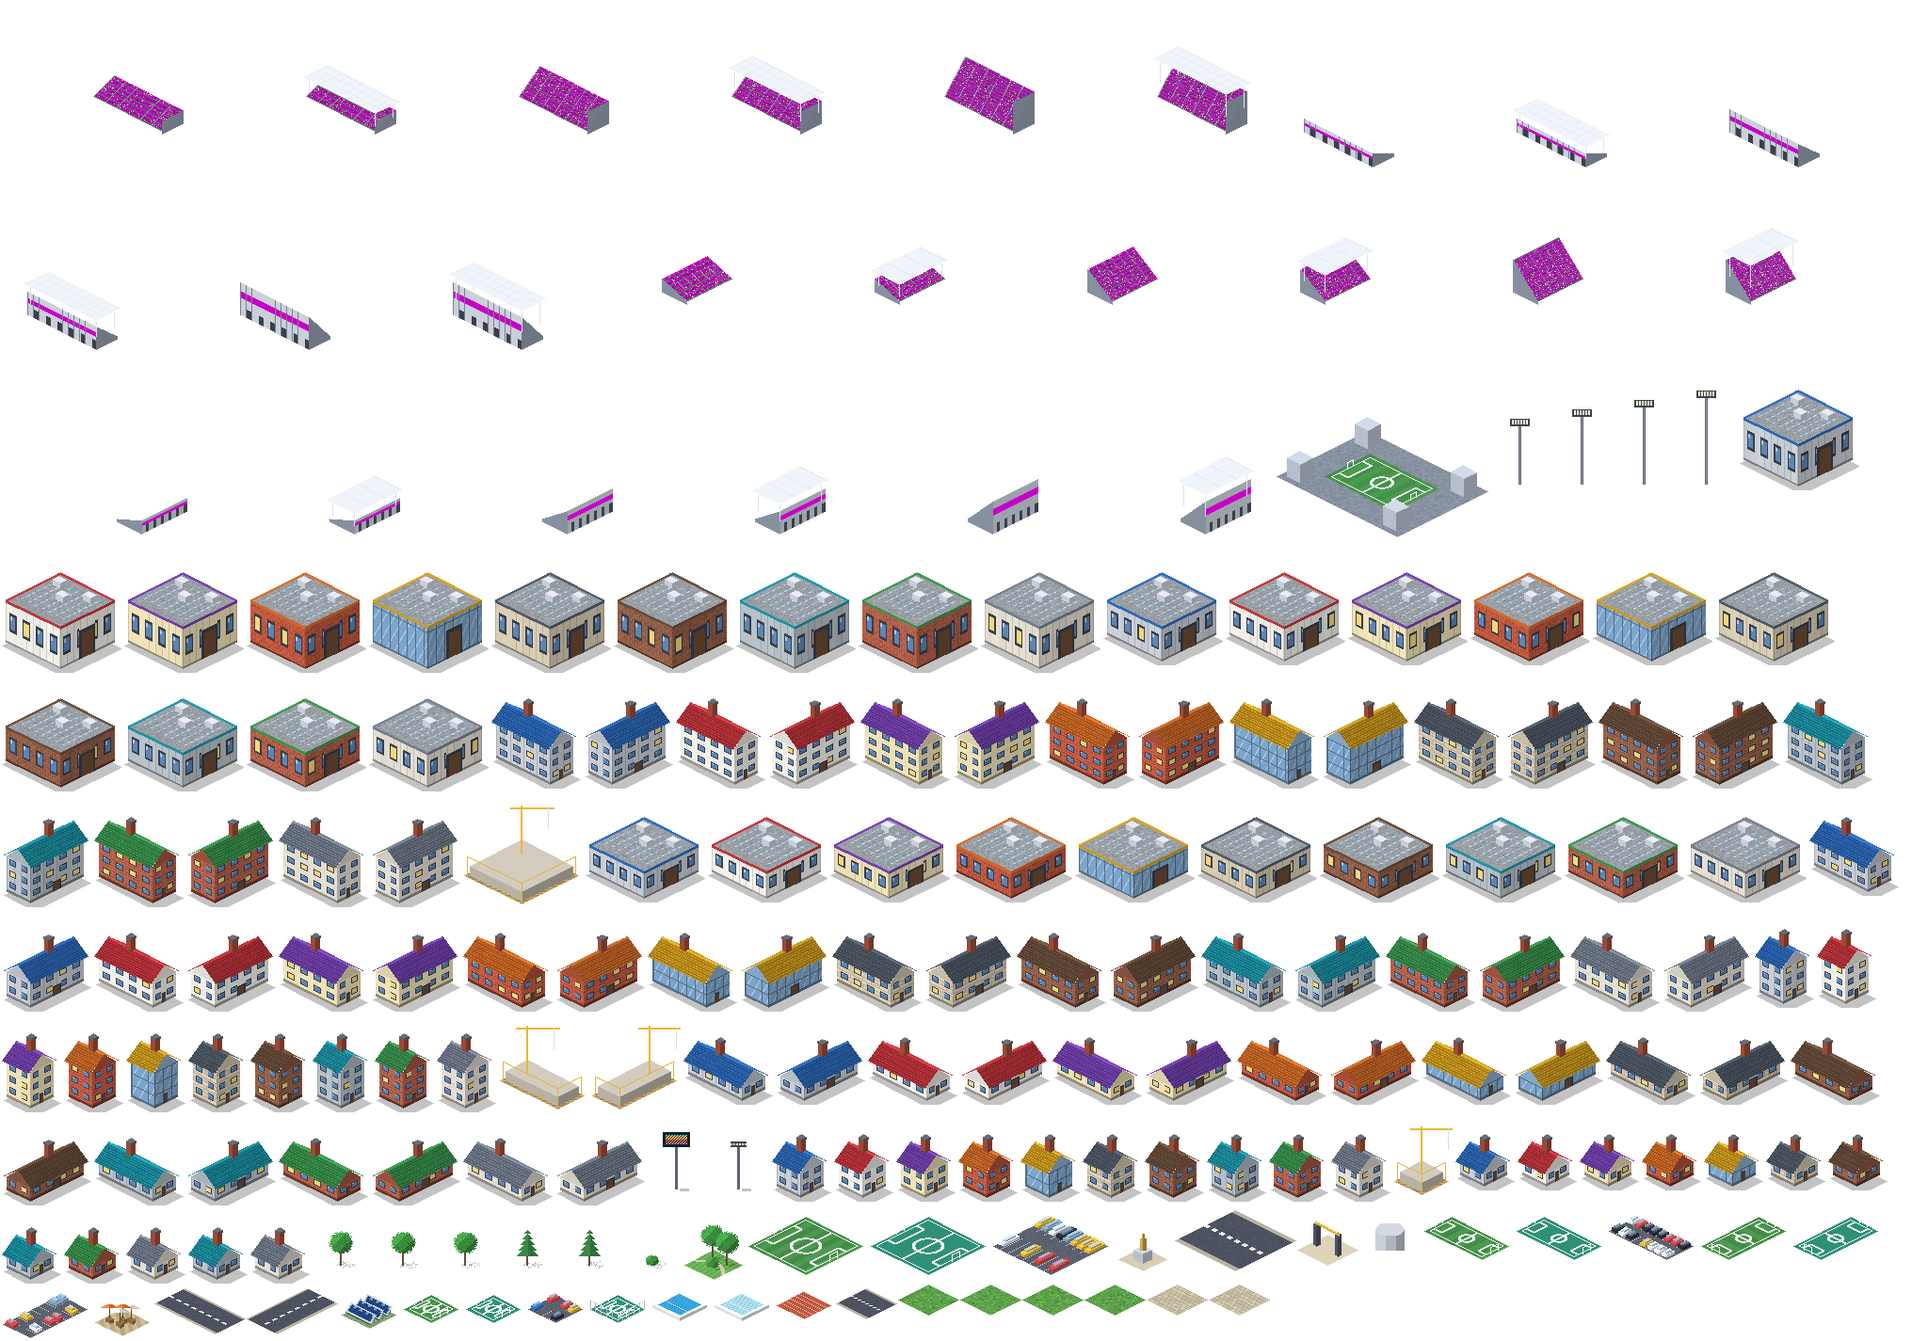
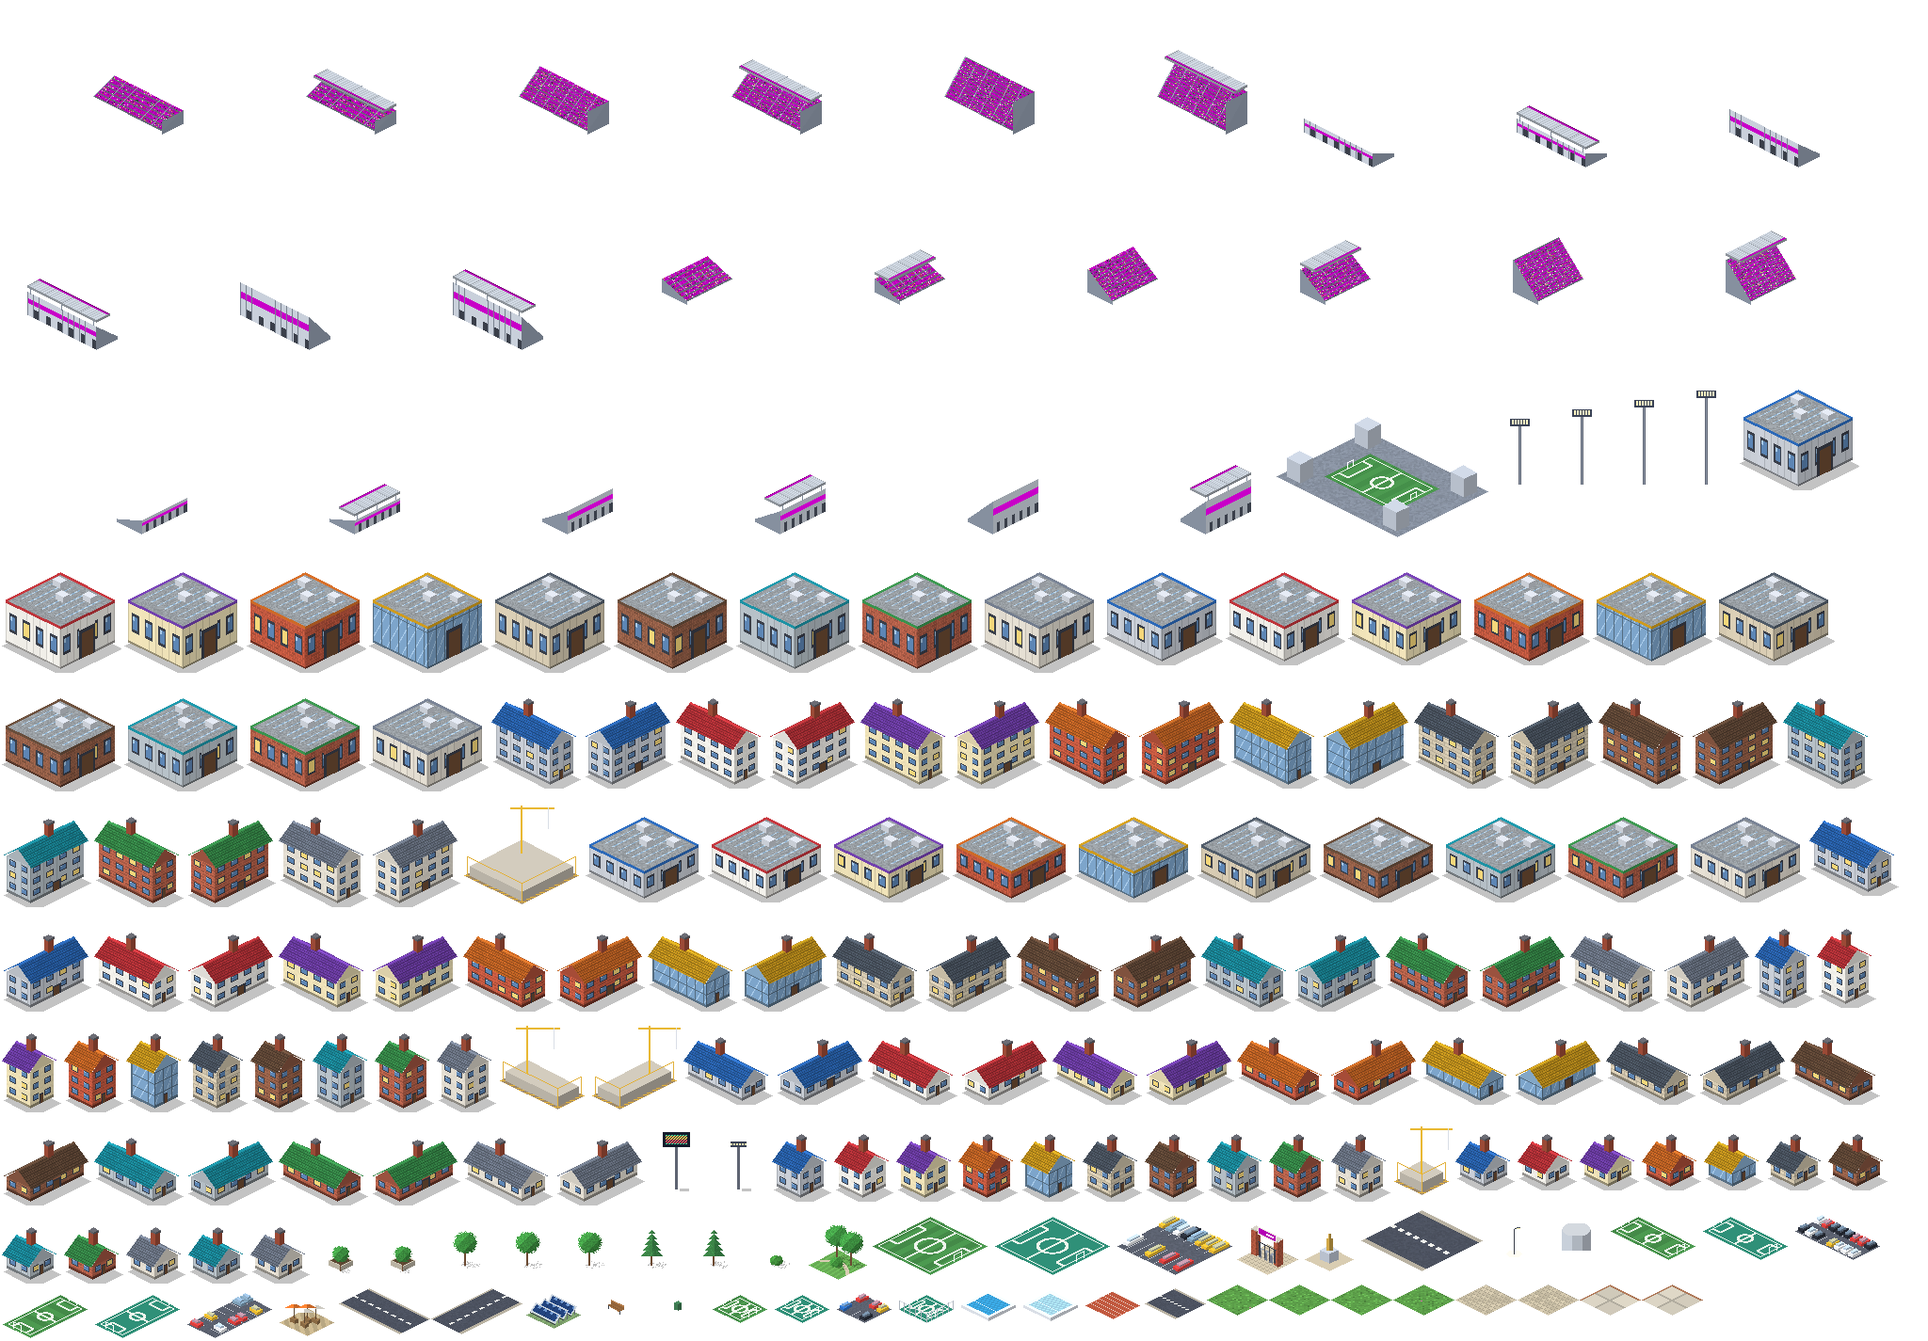
Stadionumfeld: Kragdächer, Eingangstor, Bordsteine, Promenade und Wegausstattung (#54)
- Tribünendächer als Kragdach aus Trapezblech über dem äußeren Teil der Ränge,
  Blende in Vereinsfarbe; das Spielfeld bleibt frei (statt Glasgitter über allem)
- Eingangstor mit Backsteinpfeilern, Drehkreuzen und Vereinsschild, in der
  Tiefensortierung vor dem Stadion
- Bordsteine zwischen Pflaster und Rasen, Platzflächen als Promenade
- Laternen, Bänke, Pflanzkübel und Abfalleimer fest aus der Lage abgeleitet
- Tests für Ausstattung und Platzerkennung, README

Claude-Session: https://claude.ai/code/session_0113ii8AtD5xKZo46Gr5L5Y4

diff --git a/src/Fmh.Desktop/Controls/IsoPixelArt.cs b/src/Fmh.Desktop/Controls/IsoPixelArt.cs
@@ -105,9 +105,20 @@ public static class IsoPixelArt
         for (var y = 0; y < s.Height; y++)
             for (var x = 0; x < s.Width; x++)
             {
-                var name = gates.Contains((x, y)) ? "gate" : paths.Contains((x, y)) ? $"path_{(x + y) % 2}" : $"grass_{(x * 7 + y * 3) % 4}";
+                var paved = paths.Contains((x, y)) || gates.Contains((x, y));
+                var name = !paved ? $"grass_{(x * 7 + y * 3) % 4}"
+                    : IsPlaza(paths, x, y) ? $"plaza_{(x + y) % 2}" : $"path_{(x + y) % 2}";
                 atlas.Draw(ctx, name, P(o, x, y));
             }
+        // Bordstein, wo Pflaster an Rasen grenzt
+        var curb = new Pen(B("#9C8C70"), 1);
+        foreach (var (x, y) in paths)
+        {
+            if (!paths.Contains((x, y - 1)) && !gates.Contains((x, y - 1))) ctx.DrawLine(curb, P(o, x, y), P(o, x + 1, y));
+            if (!paths.Contains((x - 1, y)) && !gates.Contains((x - 1, y))) ctx.DrawLine(curb, P(o, x, y), P(o, x, y + 1));
+            if (!paths.Contains((x, y + 1)) && !gates.Contains((x, y + 1))) ctx.DrawLine(curb, P(o, x, y + 1), P(o, x + 1, y + 1));
+            if (!paths.Contains((x + 1, y)) && !gates.Contains((x + 1, y))) ctx.DrawLine(curb, P(o, x + 1, y), P(o, x + 1, y + 1));
+        }
         using (ctx.PushTransform(IsoArt.Ground(o)))
         {
             if (s.BaseWidth < s.Width)
@@ -117,6 +128,53 @@ public static class IsoPixelArt
             ctx.FillRectangle(B(Color.FromArgb(40, 120, 150, 110)), new Rect(s.Width, 0, 1, s.Height));
             ctx.DrawRectangle(null, new Pen(B(Color.FromArgb(90, 255, 255, 255)), 0.025, new DashStyle(new double[] { 3, 3 }, 0)), new Rect(s.Width, 0, 1, s.Height));
         }
+    }
+
+    /// <summary>
+    /// Ausstattung der Wege, fest aus der Lage abgeleitet und ohne Wirkung im Spiel: Laternen in festen Abständen am
+    /// hinteren und linken Wegrand, Bänke an der vorderen Kante, Pflanzkübel und Abfalleimer auf inneren Feldern.
+    /// Dazu die Tore (in Vereinsfarbe). Nichts steht neben einem Tor.
+    /// Rückgabe sortiert nach Zeichenreihenfolge (Schlüssel = vordere Ecke des Feldes, x + y + 2).
+    /// </summary>
+    public static List<IsoDecoration> Decorations(IsoMapState s)
+    {
+        var list = new List<IsoDecoration>();
+        if (!s.ShowPaths) return list;
+        var paths = s.Paths.Select(p => (p.X, p.Y)).ToHashSet();
+        var gates = s.Gates.Select(p => (p.X, p.Y)).ToHashSet();
+        bool P(int x, int y) => paths.Contains((x, y)) || gates.Contains((x, y));
+        bool NearGate(int x, int y) => gates.Any(g => Math.Abs(g.X - x) <= 1 && Math.Abs(g.Y - y) <= 1);
+        foreach (var g in gates) list.Add(new(g.X + g.Y + 2, g.X, g.Y, "gate", true));
+        foreach (var (x, y) in paths)
+        {
+            if (gates.Contains((x, y)) || NearGate(x, y)) continue;
+            var key = x + y + 2;
+            var inner = true;
+            for (var dy = -1; dy <= 1 && inner; dy++)
+                for (var dx = -1; dx <= 1 && inner; dx++)
+                    inner = P(x + dx, y + dy);
+            var h = (x * 92821) ^ (y * 68917);
+            if (!P(x, y - 1) && x % 3 == 0) list.Add(new(key, x + 0.5, y + 0.1, "deco_lamp", false));
+            else if (!P(x - 1, y) && y % 3 == 0) list.Add(new(key, x + 0.1, y + 0.5, "deco_lamp", false));
+            else if (!P(x, y + 1) && x % 4 == 2) list.Add(new(key, x + 0.5, y + 0.85, "deco_bench", false));
+            else if (inner && h % 4 == 0) list.Add(new(key, x + 0.5, y + 0.5, $"deco_planter_{(x + y) % 2}", false));
+            else if (inner && h % 7 == 3) list.Add(new(key, x + 0.5, y + 0.5, "deco_bin", false));
+        }
+        list.Sort((a, b) => a.Key != b.Key ? a.Key.CompareTo(b.Key) : a.X.CompareTo(b.X));
+        return list;
+    }
+
+    /// <summary>Zeichnet ein Ausstattungsstück; die Sprites sind auf die Feldmitte ausgerichtet.</summary>
+    public static void Decoration(DrawingContext ctx, Vector o, IsoDecoration d, IsoMapState s, IsoAtlas atlas) =>
+        atlas.Draw(ctx, d.Name, d.Name == "gate" ? P(o, d.X, d.Y) : P(o, d.X - 0.5, d.Y - 0.5), d.Tinted ? s.SeatColor : null);
+
+    /// <summary>Platzfeld: Weg, dessen acht Nachbarn ebenfalls Weg sind (große Fläche statt Gehweg).</summary>
+    public static bool IsPlaza(HashSet<(int, int)> paths, int x, int y)
+    {
+        for (var dy = -1; dy <= 1; dy++)
+            for (var dx = -1; dx <= 1; dx++)
+                if (!paths.Contains((x + dx, y + dy))) return false;
+        return true;
     }
 
     /// <summary>Baum-Sprite an einem Rasterpunkt; die Art ergibt sich fest aus der Lage.</summary>
@@ -142,3 +200,6 @@ public static class IsoPixelArt
             else IsoArt.Tree(ctx, P(o, x, y), 6 + (x * 7 + y * 3) % 3);
     }
 }
+
+/// <summary>Ausstattungsstück oder Tor auf der Karte (Rasterposition des Fußpunkts, Zeichenschlüssel).</summary>
+public sealed record IsoDecoration(int Key, double X, double Y, string Name, bool Tinted);

diff --git a/tools/sprites/specials.py b/tools/sprites/specials.py
@@ -1,8 +1,10 @@
 """Boden, Bäume und Sondergebäude (Plätze, Parkplätze, Solar, Park, Pool, Biergarten, Türme, Baustelle)."""
 import math
 import random
+from PIL import Image
 from iso import Sprite, rgb, shade, mix, noise
 from buildings import box, shadow, house
+from stadium import mask
 
 GRASS = rgb("#5FA34C")
 PAVE = rgb("#CFC4AA")
@@ -40,14 +42,93 @@ def path_tile(seed):
     return s
 
 
+def plaza_tile(seed):
+    """Platzfläche: große helle Betonplatten (2x2 je Feld) mit Fugen und einem Zierband aus Klinker."""
+    s = Sprite(1, 1, 0)
+    n = noise(seed)
+    slab = rgb("#D9D2C2")
+    def tex(u, v):
+        if u < 0.06 or v < 0.06:
+            return shade(rgb("#B07A5A"), 0.95 + 0.1 * n(int(u * 20), int(v * 20)))  # Klinkerband
+        if abs(u - 0.53) < 0.025 or abs(v - 0.53) < 0.025:
+            return shade(slab, 0.82)
+        return shade(slab, 0.95 + 0.08 * n(int(u * 2) + 3, int(v * 2) + 5))
+    s.ground(0, 0, 1, 1, tex)
+    return s
+
+
 def gate_tile():
-    s = Sprite(1, 1, 30)
-    s.ground(0, 0, 1, 1, lambda u, v: shade(PAVE, 1.08))
-    for (x, y) in ((0.15, 0.5), (0.85, 0.5)):
-        box(s, x - 0.05, y - 0.05, 0.1, 0.1, 0, 22, rgb("#4A5263"))
-    a, b = s.p(0.1, 0.5, 22), s.p(0.9, 0.5, 22)
-    s.line(a, b, rgb("#E2B13C"), 3)
-    s.line((a[0], a[1] - 2), (b[0], b[1] - 2), rgb("#F5D77A"), 1)
+    """Eingangstor: Backsteinpfeiler mit Abdeckung, Torbalken als Schild in Vereinsfarbe, Drehkreuze, Gitter."""
+    s = Sprite(1, 1, 40)
+    s.ground(0, 0, 1, 1, lambda u, v: shade(PAVE, 1.06) if (u * 8) % 1 > 0.1 and (v * 8) % 1 > 0.1 else shade(PAVE, 0.86))
+    brick = rgb("#A4523C")
+    def bricks(u, v):
+        return shade(brick, 1.15) if (v * 9) % 1 < 0.2 else shade(brick, 0.95 + 0.1 * ((u * 3 + int(v * 9)) % 2))
+    for x in (0.06, 0.8):
+        s.wall_left(x, x + 0.14, 0.57, 0, 26, bricks)
+        s.wall_right(x + 0.14, 0.43, 0.57, 0, 26, lambda u, v: shade(bricks(u, v), 0.75))
+        s.ground(x - 0.01, 0.42, x + 0.15, 0.58, lambda u, v: rgb("#D9D4C8"), z=27)
+        s.wall_left(x - 0.01, x + 0.15, 0.58, 26, 27, lambda u, v: rgb("#B8B2A4"))
+    # Schild: Vereinsfarbe (Maske) mit hellem Rand und Schriftpunkten
+    def sign(u, v):
+        if v < 0.15 or v > 0.85 or u < 0.02 or u > 0.98:
+            return rgb("#F1EEE6")
+        if 0.4 < v < 0.6 and (u * 18) % 1 < 0.55 and 0.15 < u < 0.85:
+            return rgb("#FFFFFF")
+        return mask(0.9)
+    s.wall_left(0.2, 0.8, 0.5, 22, 30, sign)
+    # Drehkreuze und Gitter zwischen den Pfeilern
+    for x in (0.32, 0.5, 0.68):
+        s.wall_left(x - 0.04, x + 0.04, 0.55, 0, 8, lambda u, v: rgb("#6E7686"))
+        s.ground(x - 0.04, 0.47, x + 0.04, 0.55, lambda u, v: rgb("#9AA2B0"), z=8)
+    for x in (0.22, 0.26, 0.42, 0.58, 0.74, 0.78):
+        s.line(s.p(x, 0.5, 0), s.p(x, 0.5, 14), rgb("#3A3F4A"))
+    s.line(s.p(0.2, 0.5, 14), s.p(0.8, 0.5, 14), rgb("#3A3F4A"))
+    return s
+
+
+def lamp():
+    """Laterne: Mast mit Leuchtenkopf und Lichtkegel am Boden."""
+    s = Sprite(1, 1, 34)
+    cx, cy = s.p(0.5, 0.5)
+    for dy in range(-3, 4):
+        for dx in range(-8, 9):
+            if (dx / 8) ** 2 + (dy / 4) ** 2 <= 1:
+                s.dot(cx + dx, cy + dy, (255, 240, 180, 40))
+    s.line((cx, cy), (cx, cy - 26), rgb("#3A3F4A"))
+    s.line((cx, cy - 26), (cx + 4, cy - 28), rgb("#3A3F4A"))
+    for dx in range(3, 7):
+        s.dot(cx + dx, cy - 28, rgb("#4A5263"))
+        s.dot(cx + dx, cy - 27, rgb("#FFF3B0"))
+    return s
+
+
+def bench():
+    s = Sprite(1, 1, 12)
+    wood = rgb("#9A6A3E")
+    s.wall_left(0.3, 0.7, 0.55, 3, 4, lambda u, v: shade(wood, 1.1))
+    s.ground(0.3, 0.45, 0.7, 0.55, lambda u, v: wood if (v * 3) % 1 > 0.25 else shade(wood, 0.8), z=4)
+    s.wall_left(0.3, 0.7, 0.45, 4, 8, lambda u, v: shade(wood, 0.95) if v > 0.4 else shade(wood, 1.15))
+    for x in (0.32, 0.68):
+        s.line(s.p(x, 0.55, 0), s.p(x, 0.55, 3), rgb("#3A3F4A"))
+    return s
+
+
+def planter(seed=1):
+    """Pflanzkübel mit kleinem Baum."""
+    s = Sprite(1, 1, 46)
+    box(s, 0.3, 0.3, 0.4, 0.4, 0, 5, rgb("#B9B2A2"))
+    s.ground(0.33, 0.33, 0.67, 0.67, lambda u, v: rgb("#5B4632"), z=5)
+    t = tree("oak", seed)
+    small = t.img.resize((t.img.size[0] * 3 // 4, t.img.size[1] * 3 // 4), Image.NEAREST)
+    cx, cy = s.p(0.5, 0.5)
+    s.img.alpha_composite(small, (int(cx - t.ax * 3 / 4), int(cy - 5 - t.ay * 3 / 4)))
+    return s
+
+
+def bin_():
+    s = Sprite(1, 1, 10)
+    box(s, 0.45, 0.45, 0.1, 0.1, 0, 7, rgb("#3E7A52"))
     return s
 
 

diff --git a/tools/sprites/stadium.py b/tools/sprites/stadium.py
@@ -91,16 +91,45 @@ def stand(side, level, roof, seed=1):
         s.poly(end, shade(CONCRETE, 0.95))
         region = (x1, y0, W - OUT, y1)
     if roof:
-        rx0, ry0, rx1, ry1 = region
-        z = hi + 9
-        for (px, py) in ((rx0 + 0.05, ry0 + 0.05), (rx1 - 0.05, ry0 + 0.05), (rx0 + 0.05, ry1 - 0.05), (rx1 - 0.05, ry1 - 0.05)):
-            s.line(s.p(px, py, hi * 0.5), s.p(px, py, z), rgb("#DDE3EA"))
-        def glass(u, v):
-            if (u * 10) % 1 < 0.12 or (v * 3) % 1 < 0.12:
-                return rgb("#E9EEF4")
-            return (220, 232, 245, 110)
-        s.ground(rx0 - 0.05, ry0 - 0.05, rx1 + 0.05, ry1 + 0.05, glass, z=z)
+        roof_over(s, side, region, hi)
     return s
+
+
+def roof_over(s, side, region, hi):
+    """Kragdach über dem äußeren Teil der Tribüne: Trapezblech mit Rippen, Blende in Vereinsfarbe an der Innenkante,
+    Stützen an der Außenkante. Das Spielfeld bleibt frei."""
+    rx0, ry0, rx1, ry1 = region
+    k = 0.62  # überdachter Anteil der Tribünentiefe
+    if side == "North":
+        ry1 = ry0 + (ry1 - ry0) * k
+    elif side == "South":
+        ry0 = ry1 - (ry1 - ry0) * k
+    elif side == "West":
+        rx1 = rx0 + (rx1 - rx0) * k
+    else:
+        rx0 = rx1 - (rx1 - rx0) * k
+    z = hi + 7
+    metal = rgb("#C9D1DB")
+    def tex(u, v):
+        # a: entlang der Tribüne, b: 0 = außen, 1 = Innenkante
+        a, b = {"North": (u, v), "South": (u, 1 - v), "West": (v, u), "East": (v, 1 - u)}[side]
+        if b > 0.84:
+            return mask(0.95) if b < 0.97 else mask(0.6)  # Blende
+        c = shade(metal, 1.06 if (a * 28) % 1 < 0.5 else 0.94)  # Rippen
+        if (a * 4) % 1 < 0.03:
+            c = shade(metal, 0.75)  # Binder
+        return c
+    # Stützen an der Außenkante
+    outer = {"North": [(rx0 + 0.1, ry0), (rx1 - 0.1, ry0), ((rx0 + rx1) / 2, ry0)],
+             "South": [(rx0 + 0.1, ry1), (rx1 - 0.1, ry1), ((rx0 + rx1) / 2, ry1)],
+             "West": [(rx0, ry0 + 0.1), (rx0, ry1 - 0.1), (rx0, (ry0 + ry1) / 2)],
+             "East": [(rx1, ry0 + 0.1), (rx1, ry1 - 0.1), (rx1, (ry0 + ry1) / 2)]}[side]
+    for (px, py) in outer:
+        s.line(s.p(px, py, hi), s.p(px, py, z), rgb("#7D8796"))
+    s.ground(rx0, ry0, rx1, ry1, tex, z=z)
+    # Dachkante (Dicke) sichtbar an den vorderen Seiten
+    s.wall_left(rx0, rx1, ry1, z - 2, z, lambda u, v: shade(metal, 0.7))
+    s.wall_right(rx1, ry0, ry1, z - 2, z, lambda u, v: shade(metal, 0.6))
 
 
 def facade(s, a, b, c, hi, left, seed):

diff --git a/tests/Fmh.Tests/IsoSpritesTests.cs b/tests/Fmh.Tests/IsoSpritesTests.cs
@@ -44,6 +44,38 @@ public class IsoSpritesTests
         for (var level = 1; level <= 4; level++) Assert.True(atlas.Has($"mast_{level}"));
     }
 
+    [AvaloniaFact]
+    public void StartingGroundsGetGateAndPathFurnitureButNothingBesideTheGate()
+    {
+        var g = TestData.NewSession().HumanClub.Grounds;
+        var state = new IsoMapState { Width = g.Width, Height = g.Height, Paths = g.Paths.ToList(), Gates = g.Gates.ToList() };
+        var decos = IsoPixelArt.Decorations(state);
+        var atlas = IsoAtlas.Shared!;
+        Assert.Equal(g.Gates.Count, decos.Count(d => d.Name == "gate"));
+        Assert.Contains(decos, d => d.Name == "deco_lamp");
+        Assert.All(decos, d => Assert.True(atlas.Has(d.Name), d.Name));
+        foreach (var d in decos.Where(d => d.Name != "gate"))
+        {
+            var (x, y) = ((int)Math.Floor(d.X), (int)Math.Floor(d.Y));
+            Assert.Contains(g.Paths, p => p.X == x && p.Y == y);
+            Assert.DoesNotContain(g.Gates, gt => Math.Abs(gt.X - x) <= 1 && Math.Abs(gt.Y - y) <= 1);
+        }
+        Assert.Equal(decos.OrderBy(d => d.Key).Select(d => d.Key), decos.Select(d => d.Key));
+        // Ohne Wegenetz-Anzeige keine Ausstattung
+        state.ShowPaths = false;
+        Assert.Empty(IsoPixelArt.Decorations(state));
+    }
+
+    [Fact]
+    public void PlazaNeedsPathOnAllEightNeighbours()
+    {
+        var block = new HashSet<(int, int)>();
+        for (var x = 0; x < 3; x++) for (var y = 0; y < 3; y++) block.Add((x, y));
+        Assert.True(IsoPixelArt.IsPlaza(block, 1, 1));
+        block.Remove((2, 2));
+        Assert.False(IsoPixelArt.IsPlaza(block, 1, 1));
+    }
+
     [Theory]
     [InlineData(0, 0)]
     [InlineData(2500, 1)]

diff --git a/src/Fmh.Desktop/Controls/IsoMapControl.cs b/src/Fmh.Desktop/Controls/IsoMapControl.cs
@@ -91,12 +91,16 @@ public sealed class IsoMapControl : Control
             .OrderBy(i => i.key).ToList();
         var anchors = new Dictionary<int, Point>();
         var stadiumTop = default(Point);
-        foreach (var (_, b) in items)
+        var decos = atlas is null ? new() : IsoPixelArt.Decorations(s);
+        var di = 0;
+        foreach (var (key, b) in items)
         {
+            for (; di < decos.Count && decos[di].Key < key; di++) IsoPixelArt.Decoration(ctx, o, decos[di], s, atlas!);
             if (b is null) { stadiumTop = (atlas is null ? null : IsoPixelArt.Stadium(ctx, o, s, atlas)) ?? IsoStadium.Draw(ctx, o, s); continue; }
             if (b.Id == s.SelectedId) Outline(ctx, o, b.X, b.Y, b.Width, b.Height, Color.Parse("#F5C04E"), 2.6);
             anchors[b.Id] = (atlas is null ? null : IsoPixelArt.Building(ctx, o, b, atlas)) ?? IsoBuildings.Draw(ctx, o, b);
         }
+        for (; di < decos.Count; di++) IsoPixelArt.Decoration(ctx, o, decos[di], s, atlas!);
         IsoPixelArt.Trees(ctx, o, s, back: false, atlas);
 
         // Geistervorschau Gebäude

diff --git a/tools/sprites/preview.py b/tools/sprites/preview.py
@@ -32,7 +32,9 @@ def render(sprites, path):
     for y in range(gh):
         for x in range(gw):
             place(f"path_{(x + y) % 2}" if (x, y) in paths else f"grass_{(x * 7 + y * 3) % 4}", x, y)
-    place("gate", 6, 3)
+    place("gate", 6, 3, (46, 139, 87))
+    for (x, y, d) in ((1, 3, "deco_lamp"), (4, 3, "deco_bench"), (9, 3, "deco_planter_0"), (12, 3, "deco_lamp"), (6, 6, "deco_bin")):
+        place(d, x, y)
     objs = [
         ("house_training_2x1_2", 0, 0), ("pitch_2x1", 0, 1), ("hall_youth_2x2_2", 2, 1),
         ("stadium_base", 4, 0), ("house_medical_2x1_2", 8, 0), ("parking_2x1", 10, 0), ("house_admin_1x1_3", 12, 0),

diff --git a/tools/sprites/gen_sprites.py b/tools/sprites/gen_sprites.py
@@ -40,6 +40,11 @@ def sprites():
     for i in range(4): out[f"grass_{i}"] = X.grass_tile(10 + i)
     for i in range(2): out[f"path_{i}"] = X.path_tile(20 + i)
     out["gate"] = X.gate_tile()
+    for i in range(2): out[f"plaza_{i}"] = X.plaza_tile(70 + i)
+    out["deco_lamp"] = X.lamp()
+    out["deco_bench"] = X.bench()
+    out["deco_bin"] = X.bin_()
+    for i in range(2): out[f"deco_planter_{i}"] = X.planter(60 + i)
     for i in range(3): out[f"tree_oak_{i}"] = X.tree("oak", 30 + i)
     for i in range(2): out[f"tree_pine_{i}"] = X.tree("pine", 40 + i)
     out["tree_bush_0"] = X.tree("bush", 50)

diff --git a/README.md b/README.md
@@ -229,8 +229,13 @@ Die Karriere-Simulation (8 Saisons) zeigt eine stabile Welt:
       Solarfeld, Park, Pool und Eisbecken, Biergarten, LED-Turm, Flutlicht, Tank, BHKW, Statue und Kapelle.
       Baustellen erscheinen mit Gerüst und Kran.
     - Stadion aus Bausteinen: Sockel mit Spielfeld und Treppentürmen, je Seite eine Tribüne in drei Größen nach
-      Plätzen (bis 4.000, bis 12.000, darüber), mit oder ohne Glasdach, Flutlichtmasten nach Ausbaustufe.
-      Sitze und Fassadenband werden zur Laufzeit in die Vereinsfarbe umgefärbt.
+      Plätzen (bis 4.000, bis 12.000, darüber), mit oder ohne Kragdach, Flutlichtmasten nach Ausbaustufe.
+      Das Kragdach aus Trapezblech deckt den äußeren Teil der Ränge, das Spielfeld bleibt frei.
+      Sitze, Dachblende, Fassadenband und das Schild am Eingangstor werden zur Laufzeit in die Vereinsfarbe umgefärbt.
+    - Stadionumfeld: Eingangstor mit Backsteinpfeilern, Drehkreuzen und Vereinsschild. Bordsteine trennen Pflaster
+      und Rasen. Große Wegflächen erscheinen als Promenade aus Betonplatten mit Klinkerband.
+      Laternen stehen in festen Abständen am Wegrand, dazu Bänke, Pflanzkübel und Abfalleimer. Die Ausstattung ist
+      reine Grafik, fest aus der Lage abgeleitet und nie neben einem Tor.
     - Die Sprites werden ohne Weichzeichnen gezeichnet, der automatische Zoom rastet auf 1× bzw. 2× ein.
     - Sie entstehen mit `python3 tools/sprites/gen_sprites.py` (Pillow, deterministisch). Der Generator schreibt
       `src/Fmh.Desktop/Assets/grounds.png` und `grounds.json`. Mit `--preview datei.png` erzeugt er eine
